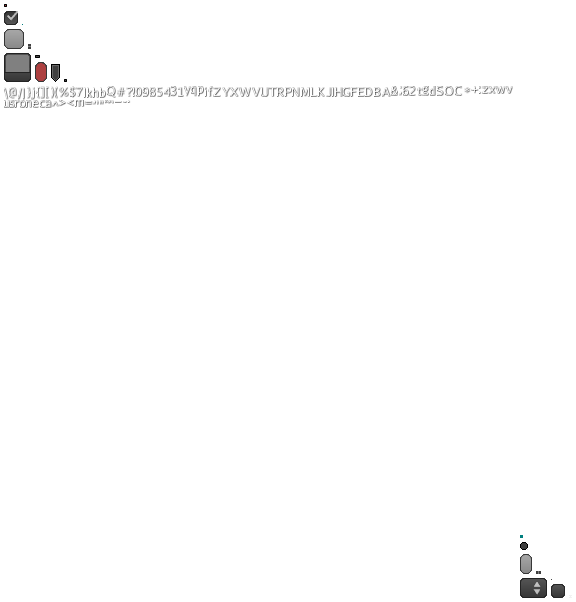
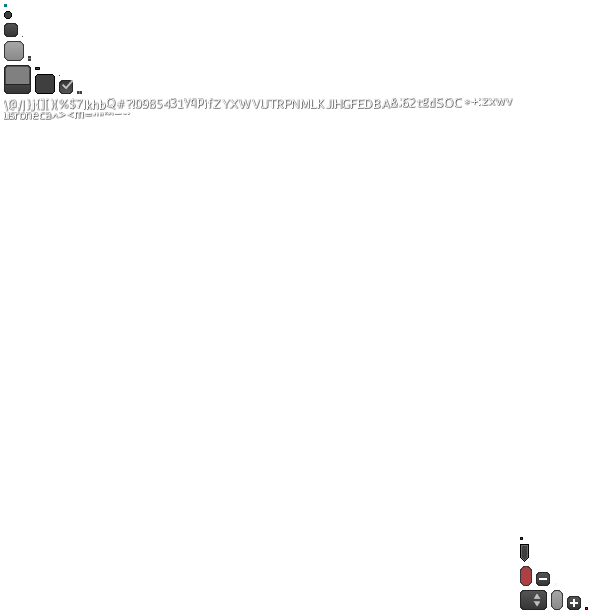
[update] latest UI graphics from libgdx, updated small/mid/big layouts with my own fonts [change] Use a ScrollPane and a List instead of a SelectBox [refactor] minor refactoring [change] use Big layout as soon as 1280 resolution is reached

Changed region(s): [[0.0, 0.0, 0.875, 0.2093], [0.875, 0.8671, 1.0, 1.0]]

diff --git a/uracer-desktop/src/com/bitfire/uracer/game/screens/MainScreen.java b/uracer-desktop/src/com/bitfire/uracer/game/screens/MainScreen.java
@@ -9,10 +9,11 @@ import com.badlogic.gdx.scenes.scene2d.Actor;
 import com.badlogic.gdx.scenes.scene2d.InputEvent;
 import com.badlogic.gdx.scenes.scene2d.Stage;
 import com.badlogic.gdx.scenes.scene2d.ui.Image;
-import com.badlogic.gdx.scenes.scene2d.ui.Label;
-import com.badlogic.gdx.scenes.scene2d.ui.SelectBox;
+import com.badlogic.gdx.scenes.scene2d.ui.List;
+import com.badlogic.gdx.scenes.scene2d.ui.ScrollPane;
 import com.badlogic.gdx.scenes.scene2d.ui.Table;
 import com.badlogic.gdx.scenes.scene2d.ui.TextButton;
+import com.badlogic.gdx.scenes.scene2d.utils.Align;
 import com.badlogic.gdx.scenes.scene2d.utils.ChangeListener;
 import com.badlogic.gdx.scenes.scene2d.utils.ClickListener;
 import com.bitfire.uracer.Input;
@@ -31,10 +32,7 @@ public final class MainScreen extends Screen {
 
 	private Stage ui;
 	private Input input;
-	private Table root, buttonsTable, infoTable;
-	private TextButton quitButton, optionsButton, startGameButton;
-	private SelectBox sbTracks;
-	private Label versionLabel;
+	private Table root, ltable, rtable;
 
 	@Override
 	public void init () {
@@ -50,6 +48,7 @@ public final class MainScreen extends Screen {
 	private void setupUI () {
 		ui = UIUtils.newScaledStage();
 		root = new Table();
+		root.debug();
 		root.setSize(ui.getWidth(), ui.getHeight());
 		ui.addActor(root);
 
@@ -58,62 +57,88 @@ public final class MainScreen extends Screen {
 		bg.setFillParent(true);
 		root.addActor(bg);
 
+		int w = (int)(ui.getWidth() / 3);
+		int h = (int)(ui.getHeight() / 2);
+
 		// version info
 		Table infoTable = UIUtils.newVersionInfoTable();
 		root.addActor(infoTable);
 		root.bottom().padBottom(25);
 
-		buttonsTable = new Table();
-		root.addActor(buttonsTable);
+		// layout tables
+		ltable = new Table();
+		ltable.debug();
+		ltable.defaults();
+		ltable.align(Align.left | Align.top);
+		root.add(ltable).expandX().height(h);
+
+		// rtable = new Table();
+		// rtable.debug();
+		// rtable.defaults().padRight(5);
+		// rtable.align(Align.right | Align.top);
+		// root.add(rtable).expandX().height(h);
+
+		// buttonsTable = new Table();
+		// root.addActor(buttonsTable);
 		// buttonsTable.debug();
-		buttonsTable.setFillParent(true);
+		// buttonsTable.setFillParent(true);
 
-		sbTracks = UIUtils.newSelectBox(GameLevels.getLevels(), new ChangeListener() {
-			@Override
-			public void changed (ChangeEvent event, Actor actor) {
-				SelectBox source = (SelectBox)actor;
-				int idx = source.getSelectionIndex();
-				GameLevelDescriptor desc = GameLevels.getLevels()[idx];
-				ScreensShared.selectedLevelId = desc.getId();
-				UserPreferences.string(Preference.LastPlayedTrack, ScreensShared.selectedLevelId);
-				UserPreferences.save();
+		/** left table */
+
+		// track list
+		{
+			ScrollPane listPane = UIUtils.newScrollPane();
+			List trackList = UIUtils.newListBox(GameLevels.getLevels(), new ChangeListener() {
+				@Override
+				public void changed (ChangeEvent event, Actor actor) {
+					List source = (List)actor;
+					int idx = source.getSelectedIndex();
+					GameLevelDescriptor desc = GameLevels.getLevels()[idx];
+					ScreensShared.selectedLevelId = desc.getId();
+					UserPreferences.string(Preference.LastPlayedTrack, ScreensShared.selectedLevelId);
+					UserPreferences.save();
+				}
+			});
+			listPane.setWidget(trackList);
+			listPane.setOverscroll(false, false);
+			listPane.setScrollingDisabled(false, true);
+			listPane.setFlickScroll(false);
+
+			// restore previous user selection, if any
+			if (ScreensShared.selectedLevelId.length() > 0) {
+				trackList.setSelection(GameLevels.getLevel(ScreensShared.selectedLevelId).toString());
 			}
-		});
 
-		// restore previous user selection, if any
-		if (ScreensShared.selectedLevelId.length() > 0) {
-			sbTracks.setSelection(ScreensShared.selectedLevelId);
+			TextButton start = UIUtils.newTextButton("START", new ClickListener() {
+				@Override
+				public void clicked (InputEvent event, float x, float y) {
+					URacer.Game.show(ScreenType.GameScreen);
+				}
+			});
+
+			TextButton options = UIUtils.newTextButton("OPTIONS", new ClickListener() {
+				@Override
+				public void clicked (InputEvent event, float x, float y) {
+					URacer.Game.show(ScreenType.OptionsScreen);
+				}
+			});
+
+			TextButton quit = UIUtils.newTextButton("EXIT", new ClickListener() {
+				@Override
+				public void clicked (InputEvent event, float x, float y) {
+					URacer.Game.quit();
+				}
+			});
+
+			ltable.add(listPane).colspan(3).width(w).height(150).left().padBottom(10).row();
+			ltable.add(start).width(70).left();
+			ltable.add(options).width(70);
+			ltable.add(quit).width(70).right();
 		}
 
-		startGameButton = UIUtils.newTextButton("START GAME", new ClickListener() {
-			@Override
-			public void clicked (InputEvent event, float x, float y) {
-				URacer.Game.show(ScreenType.GameScreen);
-			}
-		});
-
-		optionsButton = UIUtils.newTextButton("OPTIONS", new ClickListener() {
-			@Override
-			public void clicked (InputEvent event, float x, float y) {
-				URacer.Game.show(ScreenType.OptionsScreen);
-			}
-		});
-
-		quitButton = UIUtils.newTextButton("EXIT", new ClickListener() {
-			@Override
-			public void clicked (InputEvent event, float x, float y) {
-				URacer.Game.quit();
-			}
-		});
-
-		buttonsTable.row();
-		buttonsTable.add(sbTracks).width(300).pad(5);
-		buttonsTable.row();
-		buttonsTable.add(startGameButton).width(300).height(50).pad(5);
-		buttonsTable.row();
-		buttonsTable.add(optionsButton).width(300).height(50).pad(5);
-		buttonsTable.row();
-		buttonsTable.add(quitButton).width(300).height(50).pad(5);
+		/** right table */
+		{
+		}
 	}
 
 	@Override
@@ -132,11 +157,19 @@ public final class MainScreen extends Screen {
 
 	@Override
 	public void tick () {
+
 		if (input.isPressed(Keys.Q) || input.isPressed(Keys.BACK) || input.isPressed(Keys.ESCAPE)) {
 			URacer.Game.quit();
+		}
+		if (input.isPressed(Keys.R)) {
+			disable();
+			ui.dispose();
+			setupUI();
+			enable();
 		} else {
 			ui.act(Config.Physics.PhysicsDt);
 		}
+
 	}
 
 	@Override
@@ -154,7 +187,7 @@ public final class MainScreen extends Screen {
 		Gdx.gl.glClear(GL20.GL_COLOR_BUFFER_BIT);
 
 		ui.draw();
-		// Table.drawDebug(ui);
+		Table.drawDebug(ui);
 
 		if (hasDest) {
 			dest.end();

diff --git a/uracer-desktop/src/com/bitfire/uracer/utils/UIUtils.java b/uracer-desktop/src/com/bitfire/uracer/utils/UIUtils.java
@@ -5,6 +5,8 @@ import com.badlogic.gdx.graphics.Camera;
 import com.badlogic.gdx.scenes.scene2d.Stage;
 import com.badlogic.gdx.scenes.scene2d.ui.CheckBox;
 import com.badlogic.gdx.scenes.scene2d.ui.Label;
+import com.badlogic.gdx.scenes.scene2d.ui.List;
+import com.badlogic.gdx.scenes.scene2d.ui.ScrollPane;
 import com.badlogic.gdx.scenes.scene2d.ui.SelectBox;
 import com.badlogic.gdx.scenes.scene2d.ui.Table;
 import com.badlogic.gdx.scenes.scene2d.ui.TextButton;
@@ -57,10 +59,27 @@ public final class UIUtils {
 		return sb;
 	}
 
+	public static List newListBox (Object[] items) {
+		return newListBox(items, null);
+	}
+
+	public static List newListBox (Object[] items, ChangeListener listener) {
+		List list = new List(items, Art.scrSkin);
+		if (listener != null) {
+			list.addListener(listener);
+		}
+		return list;
+	}
+
 	public static Label newLabel (String text, boolean wrap) {
 		Label l = new Label(text, Art.scrSkin);
 		l.setWrap(wrap);
 		return l;
+	}
+
+	public static ScrollPane newScrollPane () {
+		ScrollPane pane = new ScrollPane(null, Art.scrSkin);
+		return pane;
 	}
 
 	public static Table newVersionInfoTable () {

diff --git a/uracer-desktop/src/com/bitfire/uracer/resources/Art.java b/uracer-desktop/src/com/bitfire/uracer/resources/Art.java
@@ -126,11 +126,12 @@ public final class Art {
 
 		if (ScaleUtils.PlayWidth < 1280) {
 			scrSkin = new Skin(Gdx.files.internal(Storage.UI + "skin-small.json"), skinAtlas);
-		} else if (ScaleUtils.PlayWidth >= 1280 && ScaleUtils.PlayWidth < 1440) {
-			scrSkin = new Skin(Gdx.files.internal(Storage.UI + "skin-mid.json"), skinAtlas);
-		} else if (ScaleUtils.PlayWidth >= 1440) {
+		} else if (ScaleUtils.PlayWidth >= 1280) { // && ScaleUtils.PlayWidth < 1440) {
 			scrSkin = new Skin(Gdx.files.internal(Storage.UI + "skin-big.json"), skinAtlas);
 		}
+		// else if (ScaleUtils.PlayWidth >= 1440) {
+		// scrSkin = new Skin(Gdx.files.internal(Storage.UI + "skin-big.json"), skinAtlas);
+		// }
 	}
 
 	private static void disposeScreensData () {

diff --git a/uracer-desktop/src/com/bitfire/uracer/game/GameLevels.java b/uracer-desktop/src/com/bitfire/uracer/game/GameLevels.java
@@ -123,7 +123,7 @@ public final class GameLevels {
 	}
 
 	public static TiledMap load (String levelId) {
-		GameLevelDescriptor desc = levelIdToDescriptor.get(levelId);
+		GameLevelDescriptor desc = getLevel(levelId);
 		if (desc != null) {
 			String filename = desc.getFileName();
 			if (filename != null) {
@@ -143,6 +143,10 @@ public final class GameLevels {
 		}
 
 		return levelsCache;
+	}
+
+	public static GameLevelDescriptor getLevel (String levelId) {
+		return levelIdToDescriptor.get(levelId);
 	}
 
 	public static boolean levelIdExists (String levelId) {

diff --git a/uracer-desktop/src/com/bitfire/uracer/game/screens/OptionsScreen.java b/uracer-desktop/src/com/bitfire/uracer/game/screens/OptionsScreen.java
@@ -83,9 +83,7 @@ public class OptionsScreen extends Screen {
 		rtable.align(Align.right | Align.top);
 		root.add(rtable).expandX().right().height(h);
 
-		// /////////////////
-		// left table
-		// /////////////////
+		/** left table */
 
 		{
 			// time dilation input mode
@@ -155,9 +153,7 @@ public class OptionsScreen extends Screen {
 			ltable.add(box).left().padLeft(40).padTop(5);
 		}
 
-		// /////////////////
-		// right table
-		// /////////////////
+		/** right table */
 
 		{
 			// post-processing effects
